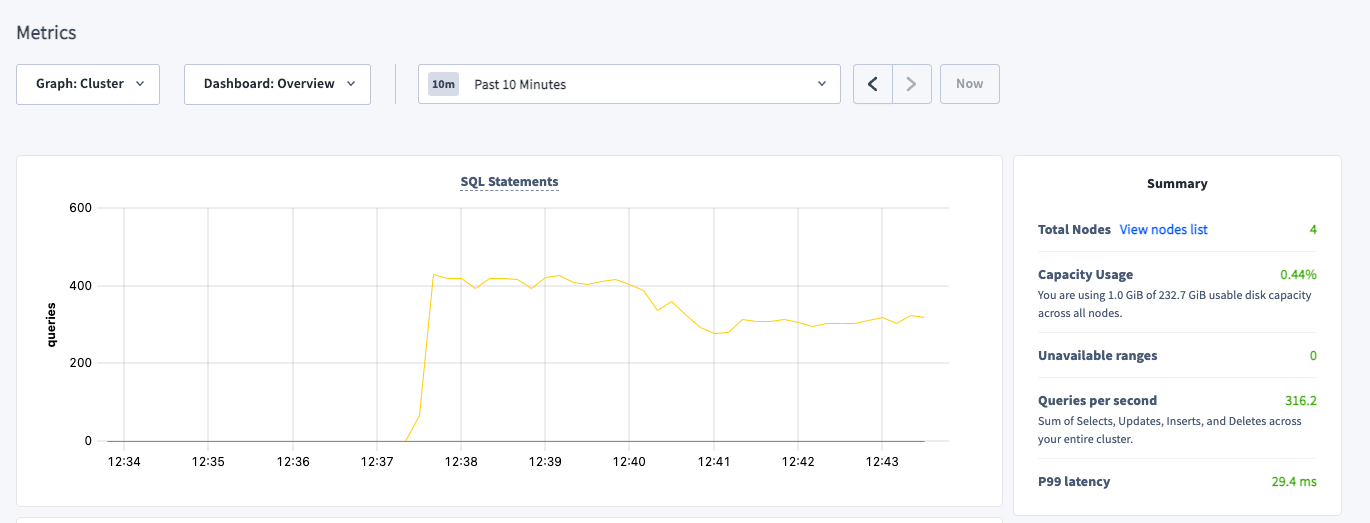
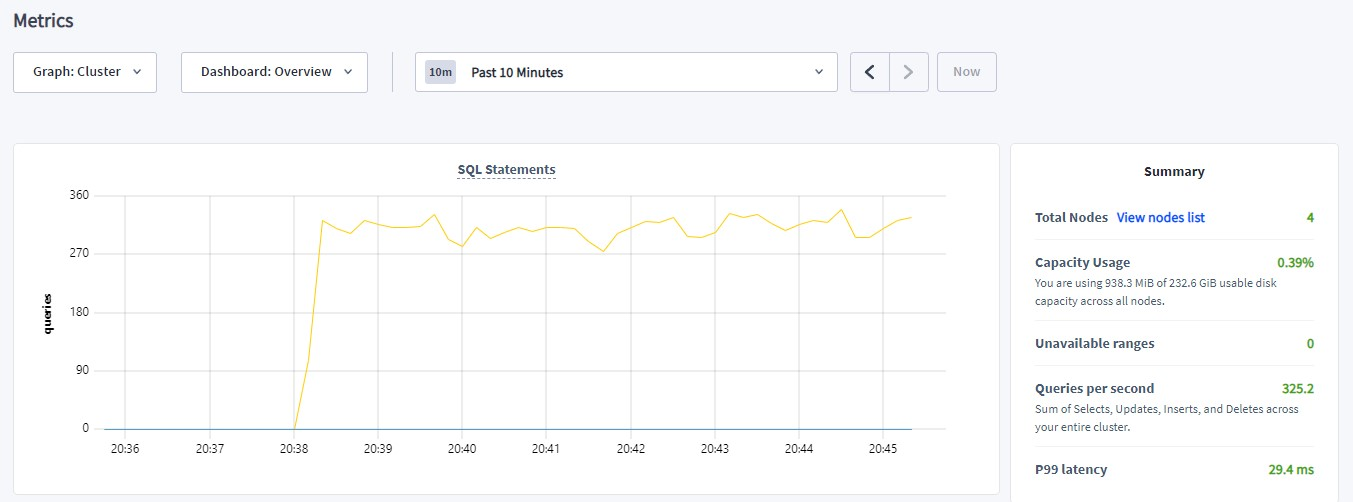
adding more content

diff --git a/README.md b/README.md
@@ -144,6 +144,7 @@ kubectl exec -it cockroachdb-client-secure -- ./cockroach workload run bank \
 'postgresql://roach:Q7gc8rEdS@cockroachdb-public:26257'
 ```
 
+
 ### Exercises
 
 Scalling test (Attach a 4th Node to the cluster) - As I am using the operator I must edit the operator.yaml and re-apply it rather than kubectl scale. (kubectl patch could possibly be used here)
@@ -153,25 +154,80 @@ kubectl apply -f operator-manifests/example-scaled-up.yaml
 
 Observations: The total node count within the UI went from 3 to 4 which was to be expected when brining in an additional node, it starts off with 0 replicas which is also to be expected. When obersving the Metrics page some more interesting things were noticeable, the P99 latency had increased by a few milliseconds and the general performance had gone down in the SQL statements chart, which over time the performance started to come back to higher levels. My assumption is this initial impact to performance is based on replicating the data across the nodes and sorting everything out.
 
-![Alt text](images/overview-scaled-up.jpg?raw=true "CockroachDB")  ![Alt text](images/metrics-scaled-up.jpg?raw=true "CockroachDB")
+![Alt text](images/overview-scaled-up.jpg?raw=true "ScaleOverview")  ![Alt text](images/metrics-scaled-up.jpg?raw=true "ScaleMetrics")
 
 
-Gracefully remove a node from the cluster
+Gracefully remove a node from the Cluster
+
+```
+kubectl exec -it cockroachdb-client-secure -- cockroach node decommission 4 \
+--certs-dir=/cockroach/cockroach-certs \
+--host=cockroachdb-3.cockroachdb.cockroach-operator-system:26258
+```
+
+Observations: Immediately, performance hit within the Metrics page, the statuses on the left change and 1 node is in a suspect state. On the Overview page, the 4th node goes in to a decomissioning state and is eventually removed from the page & cluster. After decomissioning, the cluster performance is actually higher than it was with the 4th node in service, the P99 latency appears to be lower and the SQL statements appear to be higher, I was expecting performance to drop to the same level as when initially deployed.
+
+![Alt text](images/scale-down-1.jpg?raw=true "ScaleDown1")  ![Alt text](images/scale-down-2.jpg?raw=true "ScaleDown2")
 
 
-sh-4.4$ cockroach node decommission 4 --certs-dir=/cockroach/cockroach-certs --host=cockroachdb-3.cockroachdb.cockroach-operator-system:26258
+Forcibly remove a node from the cluster (think kill -9) and see how the system behaves compared to gracefully shutting down (watch for 5 minutes)
 
-INSERT OBSERVATION HERE
+```
+kubectl delete pods cockroachdb-2 --force --grace-period=0
+```
 
-Forcibly remove a node from the cluster (think kill -9) and see how the system behaves (watch for 5 minutes)
+Observations: Similar to gracefully terminating an instance, a suspect instance came in to the summary on the metrics page, but within 10 seconds or so the pod came back in to service and everything resumed as normal. This behaviour was expected using the operator, if I was using the standard statefulset or helm chart I could have scaled to 2. I also noticed other metrics change slightly during the recovery process such as a spike in the ranges chart.
 
-INSERT OBSERVATION HERE
+
+![Alt text](images/force-delete.jpg?raw=true "ForceDel") ![Alt text](images/ranges.jpg?raw=true "ForceDel2")
 
 Remove all nodes but one from the cluster
 
-As I am using the operator there is a minimum of 3 nodes set within the resource definition, so I was unable to test this via kubectl scaling, however I expect the behaviour to result in a down state or offline state as there will be no Quorum for the CockroachDB cluster.
+As I am using the operator there is a minimum of 3 nodes set within the resource definition, so I was unable to test this via kubectl scaling, however I was able to destructively delete 2 of the nodes at the same time
+
+```
+kubectl delete pods cockroachdb-1 cockroachdb-2
+```
+
+Obersvations, cluster went completely unresponsive for about 30 seconds, but then recovered. My expectation is that if I was able to scale the statefulset to 1 replica the database would not function as it would not be able to form quorum.
+
+![Alt text](images/1-node.jpg?raw=true "1 Node")
+
 
 ### Executing a Code Example
+
+The code example I have chosen to deploy is - https://www.cockroachlabs.com/docs/cockroachcloud/quickstart?filters=go
+
+Create a Go Pod for executing code example
+
+```
+kubectl run -i -t go-pod --image=golang --restart=Never
+```
+```
+git clone https://github.com/cockroachdb/quickstart-code-samples
+```
+```
+cd quickstart-code-samples/go
+```
+```
+```
+export DATABASE_URL="postgresql://roach:Q7gc8rEdS@cockroachdb-public:26257"
+```
+```
+go mod init basic-sample && go mod tid
+```
+```
+go run main.go
+```
+
+![Alt text](images/hello-world.jpg?raw=true "Hello World")
+
+
+### Potential Extra Credit
+
+1. Accessible Ingress via Route53, NLB & K8s Ingress controller, certified with lets encrypt.
+2. Demonstration of IaaC knowledge
+3. K8s Deployment
 
 
 ## Additional Exercise Findings/Lessons Learnt
